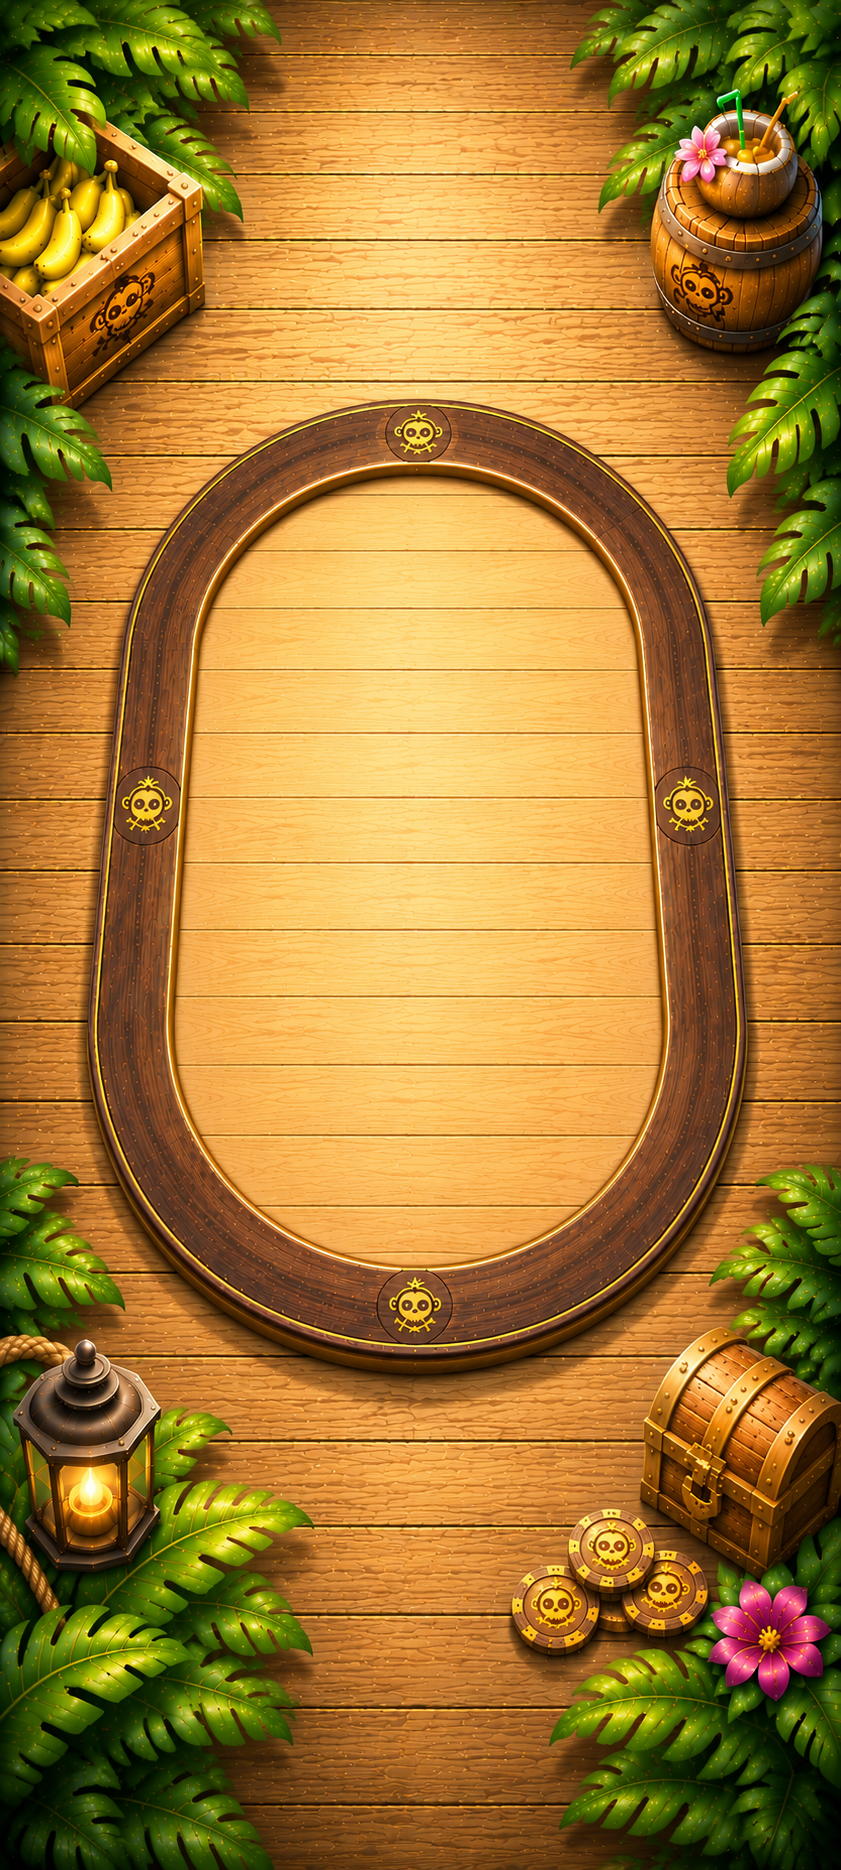
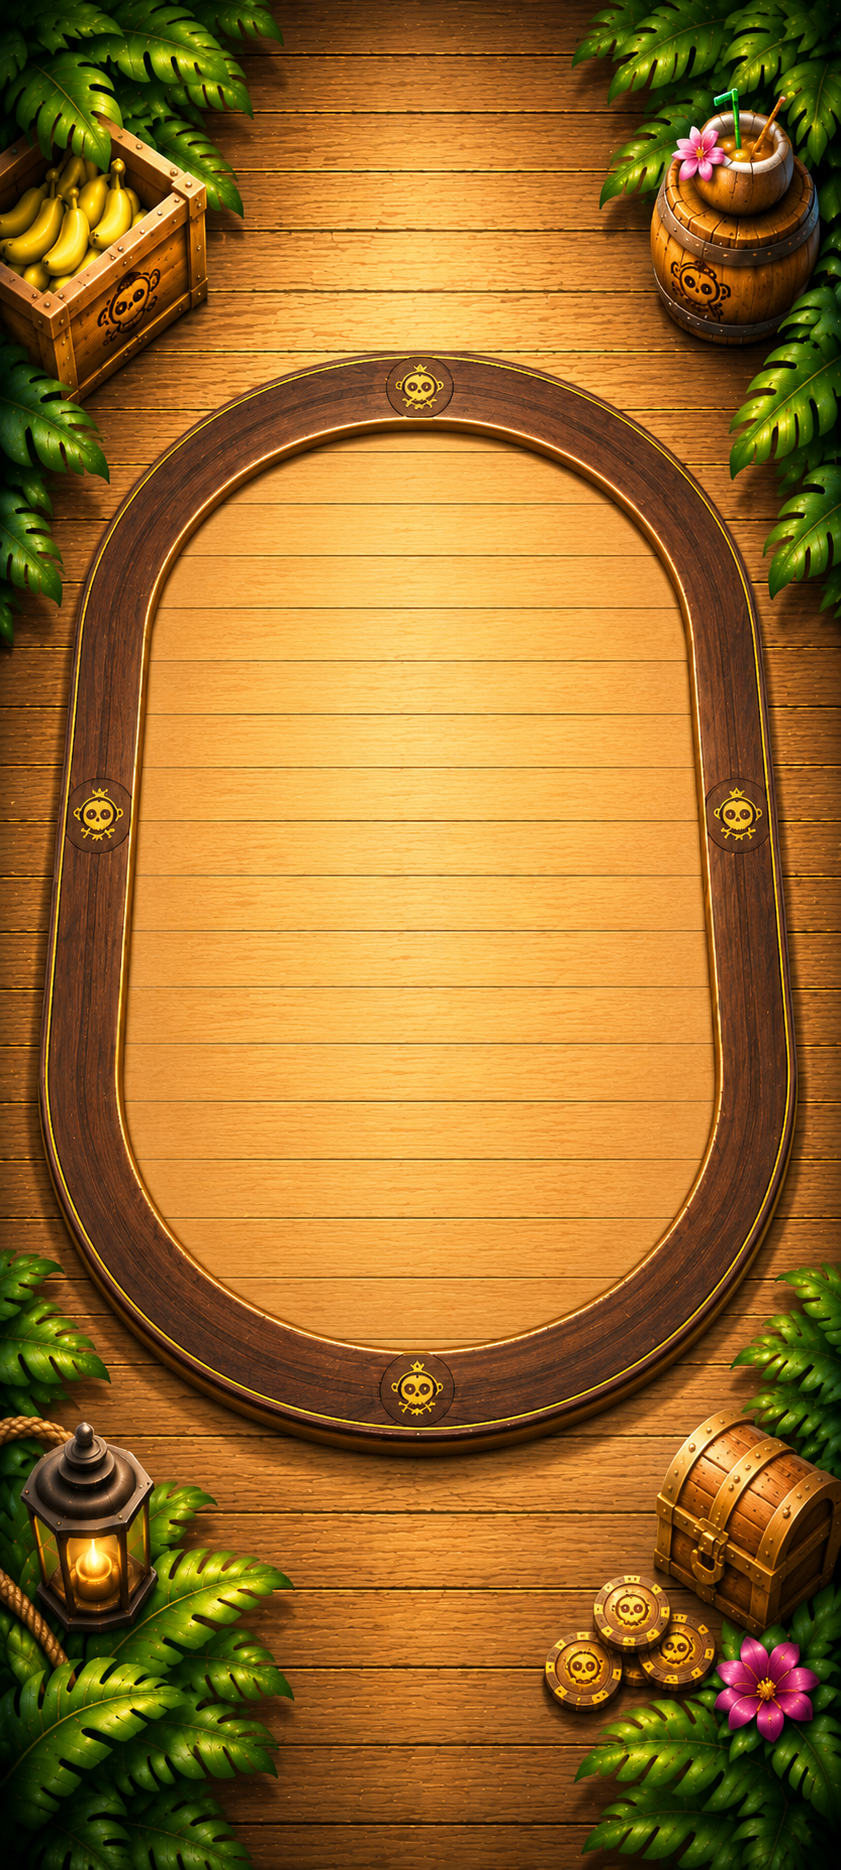
v5.60: replace in-game table artwork
Swap client/assets/table.png for the new wooden oval table illustration
(841×1870, banana crate top-left, coconut barrel top-right, lantern
bottom-left, treasure chest bottom-right). Aspect ~0.45 matches the
canvas 393/852 = 0.46 so cover-mode crops almost nothing and the oval
stays centred.

diff --git a/client/src/config.js b/client/src/config.js
@@ -13,4 +13,4 @@ function resolveUrl(url) {
 }
 
 export const SERVER_URL = resolveUrl(envUrl);
-export const VERSION = 'v5.59';
+export const VERSION = 'v5.60';